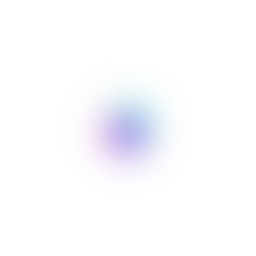
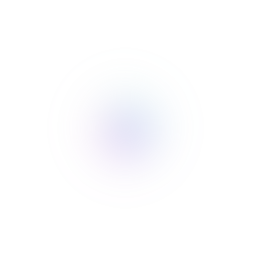
wind search

Changed region(s): [[0.375, 0.4062, 0.625, 0.625]]

diff --git a/deploy/js/main.js b/deploy/js/main.js
@@ -9,7 +9,7 @@ SceneVector = (function() {
 
   SceneVector.prototype._sizeTile = 0;
 
-  SceneVector.prototype._step = 32;
+  SceneVector.prototype._step = 50;
 
   SceneVector.prototype._vectors = null;
 
@@ -52,6 +52,7 @@ SceneVector = (function() {
       px = 0;
       py += this._sizeTile;
     }
+    console.log(this._vectors.length);
   };
 
   SceneVector.prototype._initScene3D = function() {
@@ -304,7 +305,7 @@ SceneHeight = (function() {
     this._textTest = document.getElementById("texture--test");
     this._textW = this._textDisplacement.width;
     this._textH = this._textDisplacement.height;
-    this._ctx.fillStyle = "rgba( 128, 128, 128, 1 )";
+    this._ctx.fillStyle = "rgba( 0, 0, 0, 1 )";
     this._ctx.fillRect(0, 0, this._size, this._size);
     this._initScene3D();
   }
@@ -366,7 +367,7 @@ SceneHeight = (function() {
     this._orientation = Math.atan2(dy, dx);
     length = Math.sqrt(dx * dx + dy * dy);
     this._ctx.drawImage(this._canvas, 0, 0);
-    this._ctx.fillStyle = "rgba( 0, 0, 0, .05 )";
+    this._ctx.fillStyle = "rgba( 0, 0, 0, .035 )";
     this._ctx.fillRect(0, 0, this._size, this._size);
     this._ctx.save();
     this._ctx.translate(mx, my);
@@ -406,7 +407,7 @@ SceneHeightShader = (function() {
     }
   ]);
 
-  SceneHeightShader.prototype.vertexShader = ["#define LAMBERT", "varying vec3 vLightFront;", "varying vec2 vUv;", "uniform sampler2D uText;", "#ifdef DOUBLE_SIDED", "varying vec3 vLightBack;", "#endif", THREE.ShaderChunk["map_pars_vertex"], THREE.ShaderChunk["lightmap_pars_vertex"], THREE.ShaderChunk["envmap_pars_vertex"], THREE.ShaderChunk["lights_lambert_pars_vertex"], THREE.ShaderChunk["color_pars_vertex"], THREE.ShaderChunk["morphtarget_pars_vertex"], THREE.ShaderChunk["skinning_pars_vertex"], THREE.ShaderChunk["shadowmap_pars_vertex"], "void main() {", THREE.ShaderChunk["map_vertex"], THREE.ShaderChunk["lightmap_vertex"], THREE.ShaderChunk["color_vertex"], THREE.ShaderChunk["morphnormal_vertex"], THREE.ShaderChunk["skinbase_vertex"], THREE.ShaderChunk["skinnormal_vertex"], THREE.ShaderChunk["defaultnormal_vertex"], THREE.ShaderChunk["morphtarget_vertex"], THREE.ShaderChunk["skinning_vertex"], "vec4 mvPosition;", "#ifdef USE_SKINNING", "mvPosition = modelViewMatrix * skinned;", "#endif", "#if !defined( USE_SKINNING ) && defined( USE_MORPHTARGETS )", "mvPosition = modelViewMatrix * vec4( morphed, 1.0 );", "#endif", "#if !defined( USE_SKINNING ) && ! defined( USE_MORPHTARGETS )", "vec4 data = texture2D( uText, uv );", "vec4 pos = vec4( position, 1.0 );", "pos.z -= data.z * 30.0;", "mvPosition = modelViewMatrix * pos;", "#endif", "gl_Position = projectionMatrix * mvPosition;", THREE.ShaderChunk["worldpos_vertex"], THREE.ShaderChunk["envmap_vertex"], THREE.ShaderChunk["lights_lambert_vertex"], THREE.ShaderChunk["shadowmap_vertex"], "}"].join("\n");
+  SceneHeightShader.prototype.vertexShader = ["#define LAMBERT", "varying vec3 vLightFront;", "varying vec2 vUv;", "uniform sampler2D uText;", "#ifdef DOUBLE_SIDED", "varying vec3 vLightBack;", "#endif", THREE.ShaderChunk["map_pars_vertex"], THREE.ShaderChunk["lightmap_pars_vertex"], THREE.ShaderChunk["envmap_pars_vertex"], THREE.ShaderChunk["lights_lambert_pars_vertex"], THREE.ShaderChunk["color_pars_vertex"], THREE.ShaderChunk["morphtarget_pars_vertex"], THREE.ShaderChunk["skinning_pars_vertex"], THREE.ShaderChunk["shadowmap_pars_vertex"], "void main() {", THREE.ShaderChunk["map_vertex"], THREE.ShaderChunk["lightmap_vertex"], THREE.ShaderChunk["color_vertex"], THREE.ShaderChunk["morphnormal_vertex"], THREE.ShaderChunk["skinbase_vertex"], THREE.ShaderChunk["skinnormal_vertex"], THREE.ShaderChunk["defaultnormal_vertex"], THREE.ShaderChunk["morphtarget_vertex"], THREE.ShaderChunk["skinning_vertex"], "vec4 mvPosition;", "#ifdef USE_SKINNING", "mvPosition = modelViewMatrix * skinned;", "#endif", "#if !defined( USE_SKINNING ) && defined( USE_MORPHTARGETS )", "mvPosition = modelViewMatrix * vec4( morphed, 1.0 );", "#endif", "#if !defined( USE_SKINNING ) && ! defined( USE_MORPHTARGETS )", "vec4 data = texture2D( uText, uv );", "vec4 pos = vec4( position, 1.0 );", "pos.z -= data.z * 60.0;", "mvPosition = modelViewMatrix * pos;", "#endif", "gl_Position = projectionMatrix * mvPosition;", THREE.ShaderChunk["worldpos_vertex"], THREE.ShaderChunk["envmap_vertex"], THREE.ShaderChunk["lights_lambert_vertex"], THREE.ShaderChunk["shadowmap_vertex"], "}"].join("\n");
 
   SceneHeightShader.prototype.fragmentShader = ["uniform float opacity;", "varying vec3 vLightFront;", "varying vec2 vUv;", "uniform sampler2D uText;", "#ifdef DOUBLE_SIDED", "varying vec3 vLightBack;", "#endif", THREE.ShaderChunk["color_pars_fragment"], THREE.ShaderChunk["map_pars_fragment"], THREE.ShaderChunk["lightmap_pars_fragment"], THREE.ShaderChunk["envmap_pars_fragment"], THREE.ShaderChunk["fog_pars_fragment"], THREE.ShaderChunk["shadowmap_pars_fragment"], THREE.ShaderChunk["specularmap_pars_fragment"], "void main() {", "gl_FragColor = vec4( vec3 ( 1.0 ), opacity );", THREE.ShaderChunk["map_fragment"], THREE.ShaderChunk["alphatest_fragment"], THREE.ShaderChunk["specularmap_fragment"], "#ifdef DOUBLE_SIDED", "if ( gl_FrontFacing )", "gl_FragColor.xyz *= vLightFront;", "else", "gl_FragColor.xyz *= vLightBack;", "#else", "gl_FragColor.xyz *= vLightFront;", "#endif", THREE.ShaderChunk["lightmap_fragment"], THREE.ShaderChunk["color_fragment"], THREE.ShaderChunk["envmap_fragment"], THREE.ShaderChunk["shadowmap_fragment"], THREE.ShaderChunk["linear_to_gamma_fragment"], THREE.ShaderChunk["fog_fragment"], "}"].join("\n");
 
@@ -488,16 +489,25 @@ Main = (function() {
 
   Main.prototype._sceneVector = null;
 
+  Main.prototype._stats = null;
+
   function Main() {
     this._update = __bind(this._update, this);
     this._sceneHeight = new SceneHeight();
     this._sceneVector = new SceneVector();
+    this._stats = new Stats();
+    this._stats.domElement.style.position = "absolute";
+    this._stats.domElement.style.right = "0";
+    this._stats.domElement.style.top = "0";
+    this._stats.domElement.style.zIndex = 100;
+    document.body.appendChild(this._stats.domElement);
     this._update();
   }
 
   Main.prototype._update = function() {
     this._sceneVector.update();
     this._sceneHeight.update();
+    this._stats.update();
     return requestAnimationFrame(this._update);
   };
 

diff --git a/deploy/index.html b/deploy/index.html
@@ -28,6 +28,7 @@
     <script type="text/javascript" src="js/vendor/RequestAnimationFrame.js"></script>
     <script type="text/javascript" src="js/vendor/jquery/jquery.min.js"></script>
     <script type="text/javascript" src="js/vendor/three.min.js"></script>
+    <script type="text/javascript" src="js/vendor/Stats.js"></script>
     <script type="text/javascript" src="js/main.js"></script>
 
   </body>
